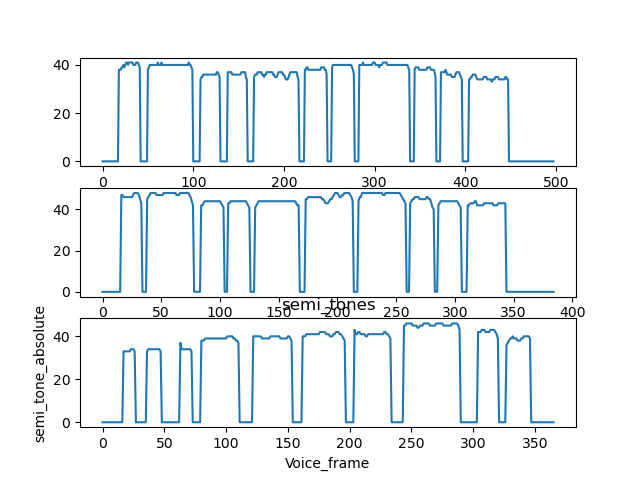
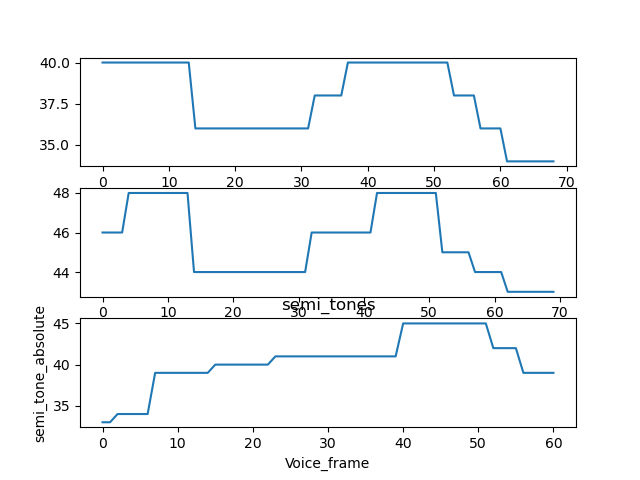
.

diff --git a/assignment2/Feature_Extractor.py b/assignment2/Feature_Extractor.py
@@ -14,16 +14,13 @@ def median_nonzero(input_list):
         if num != 0:
             sublist.append(num)
         elif sublist:
-            templist = [statistics.median(sublist)] * len(sublist)
-            # sublists.append([0] * len)
+            templist = [statistics.median(sublist)] * int(len(sublist)*100/len(input_list))
             sublists.append(templist)
             sublist = []
 
     if sublist:
-        templist_last = [statistics.median(sublist)] * len(sublist)
-        # sublists.append([0] * len)
+        templist_last = [statistics.median(sublist)] * int(len(sublist)*100/len(input_list))
         sublists.append(templist_last)
-        # sublists.append([0] * len)
 
     sublists = [elem for row in sublists for elem in row]
     # filter out the silence, and use the median value of non-zeros, make it a new list
@@ -60,15 +57,15 @@ def filter_pitch(frIsequence):
     # filter out unvoiced frame based on intensity and correlation
     threshold_cor = 0.8
     threshold_intensity_nor = np.mean(intensity_nor)
-    thresholdPitch = np.mean(pitch) + np.std(pitch)
+
     for i in range(0, frame_num):
-        if pitch_log[i] > thresholdPitch or intensity_nor[i] < threshold_intensity_nor or correlation[i] < threshold_cor:
+        if pitch_log[i] > 6.953 or pitch_log[i] < 3.487 or intensity_nor[i] < threshold_intensity_nor or correlation[i] < threshold_cor:
             pitch_log[i] = 0 # define as unvoiced
             pitch[i] = 0
     # subdivide the note based on non-zero value
 
-    # pitch = median_nonzero(pitch)
-    # pitch_log = median_nonzero(pitch_log)
+    pitch = median_nonzero(pitch)
+    pitch_log = median_nonzero(pitch_log)
     return pitch, pitch_log
 
 
@@ -144,6 +141,12 @@ def semi_melody(filter_pitch):
     for i in range(len(filter_pitch)):
         if filter_pitch[i] != 0:
             octave[i], semi_tone_relative[i], semi_tone_absolute[i], _ = analysis_note(filter_pitch[i])
+
+    # drag all to C4
+
+
+    # transpose invariant
+    # octave invariant
 
     return octave, semi_tone_relative, semi_tone_absolute, note
 

diff --git a/assignment2/main.py b/assignment2/main.py
@@ -20,11 +20,11 @@ print("Number of samples:", data1.shape[0])
 print("Duration (seconds):", data1.shape[0] / sample_rate1)
 
 # listen to wav file
-wav1 = wave.open(path1, 'rb')
-data = wav1.readframes(wav1.getnframes())
-play_obj = sa.play_buffer(data, wav1.getnchannels(), wav1.getsampwidth(), wav1.getframerate())
-play_obj.wait_done()
-wav1.close()
+# wav1 = wave.open(path1, 'rb')
+# data = wav1.readframes(wav1.getnframes())
+# play_obj = sa.play_buffer(data, wav1.getnchannels(), wav1.getsampwidth(), wav1.getframerate())
+# play_obj.wait_done()
+# wav1.close()
 
 # print time plot of three wav
 
@@ -257,4 +257,18 @@ plt.xlabel('Voice_frame')
 plt.ylabel('semi_tone_absolute')
 plt.title('semi_tones')
 plt.savefig('figures/semitones_melody.png')
+plt.show()
+
+
+plt.figure(9)
+plt.subplot(3, 1, 1)
+plt.plot(frequence1_temp, semi_tone_relative1)
+plt.subplot(3, 1, 2)
+plt.plot(frequence2_temp, semi_tone_relative2)
+plt.subplot(3, 1, 3)
+plt.plot(frequence3_temp, semi_tone_relative3)
+plt.xlabel('Voice_frame')
+plt.ylabel('semi_tone_relative')
+plt.title('semi_tones')
+plt.savefig('figures/semitones_relative.png')
 plt.show()

diff --git a/assignment2/try.py b/assignment2/try.py
@@ -5,22 +5,23 @@ input_list = [0, 0, 0, 1, 2, 3, 0, 0, 0, 0, 5, 8, 9, 0, 0, 0, 0, 2, 9, 8]
 sublists = []
 sublist = []
 
-len = 3
+# len = 3
     # hyperparameter len(assigned duration of each note and silence)
 
 for num in input_list:
     if num != 0:
         sublist.append(num)
     elif sublist:
-        templist = [statistics.median(sublist)] * len
-        sublists.append([0] * len)
+        templist = [statistics.median(sublist)] * len(sublist)
+        # sublists.append([0] * len)
         sublists.append(templist)
         sublist = []
 
 if sublist:
-    templist_last = [statistics.median(sublist)] * len
-    sublists.append([0] * len)
+    templist_last = [statistics.median(sublist)] * len(sublist)
+    # sublists.append([0] * len)
     sublists.append(templist_last)
+    # sublists.append([0] * len)
 
 sublists = [elem for row in sublists for elem in row]
     # filter out the silence, and use the median value of non-zeros, make it a new list
